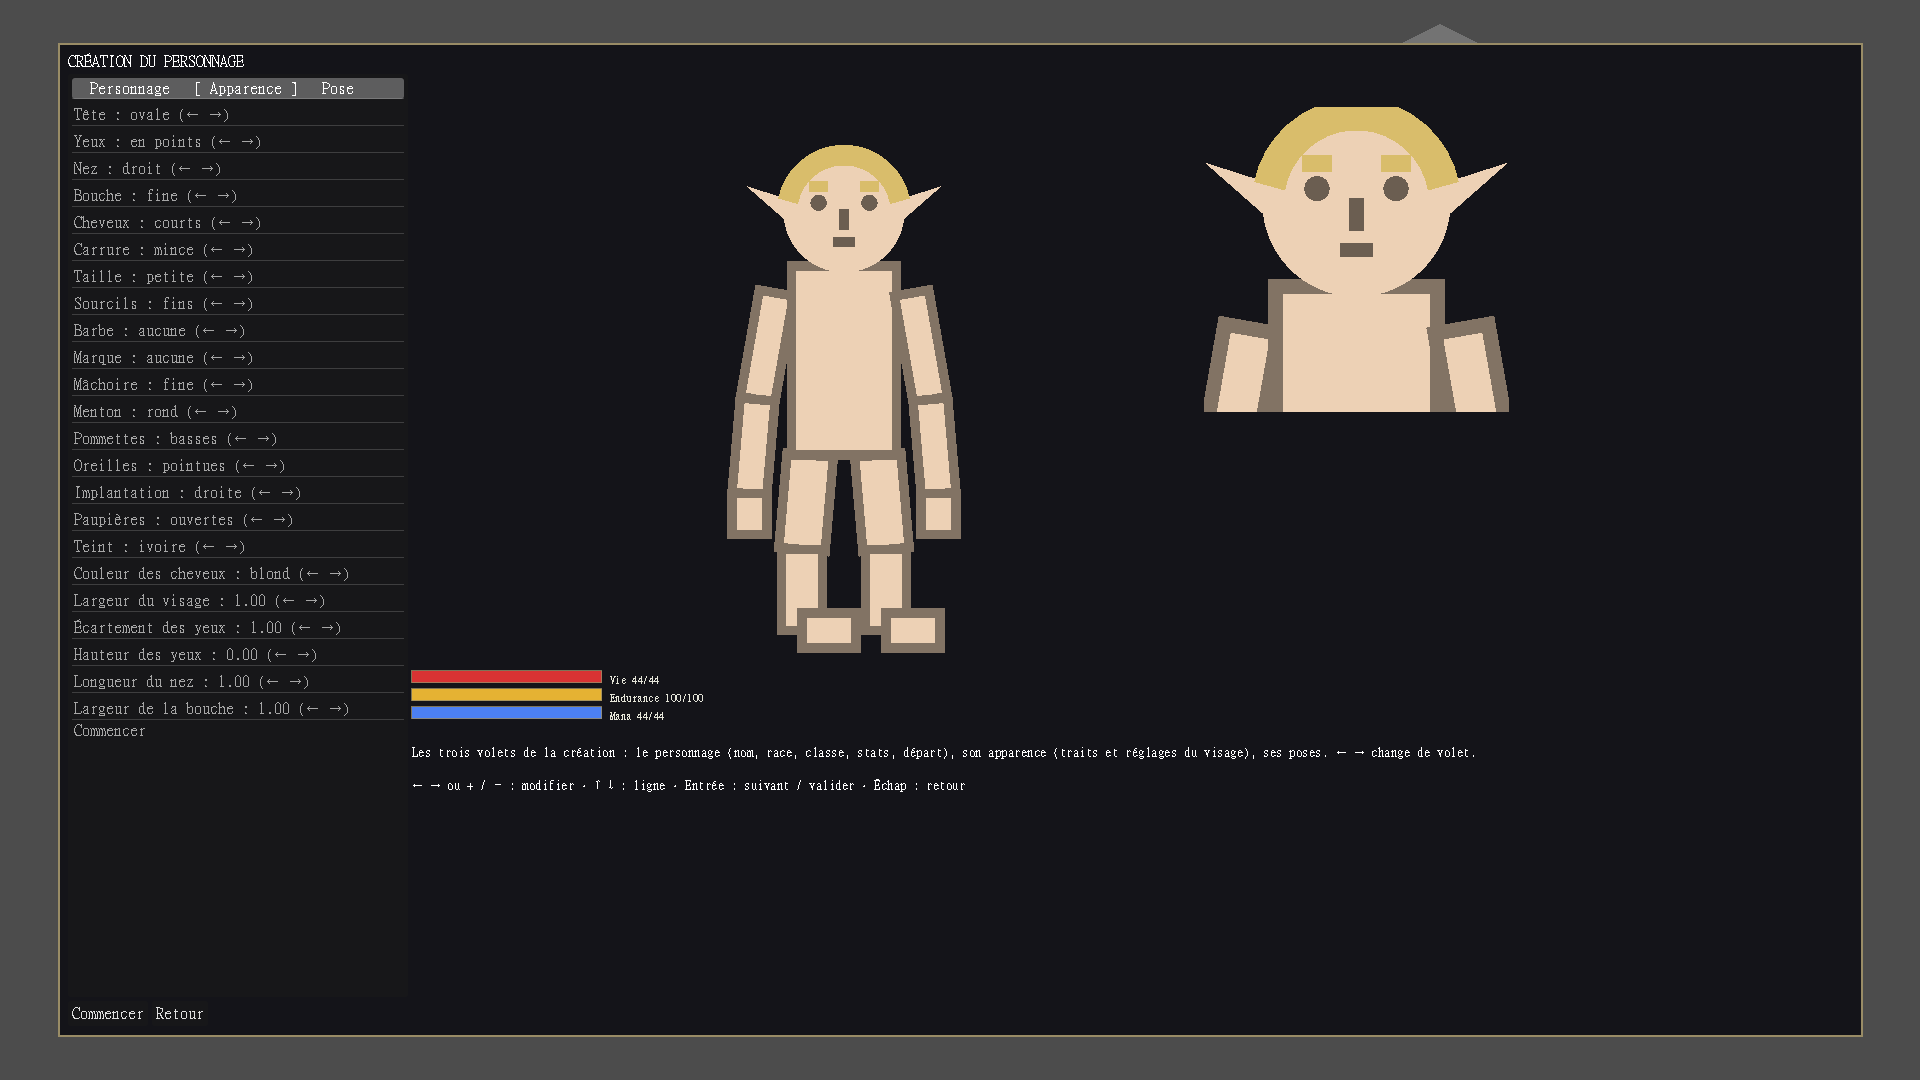
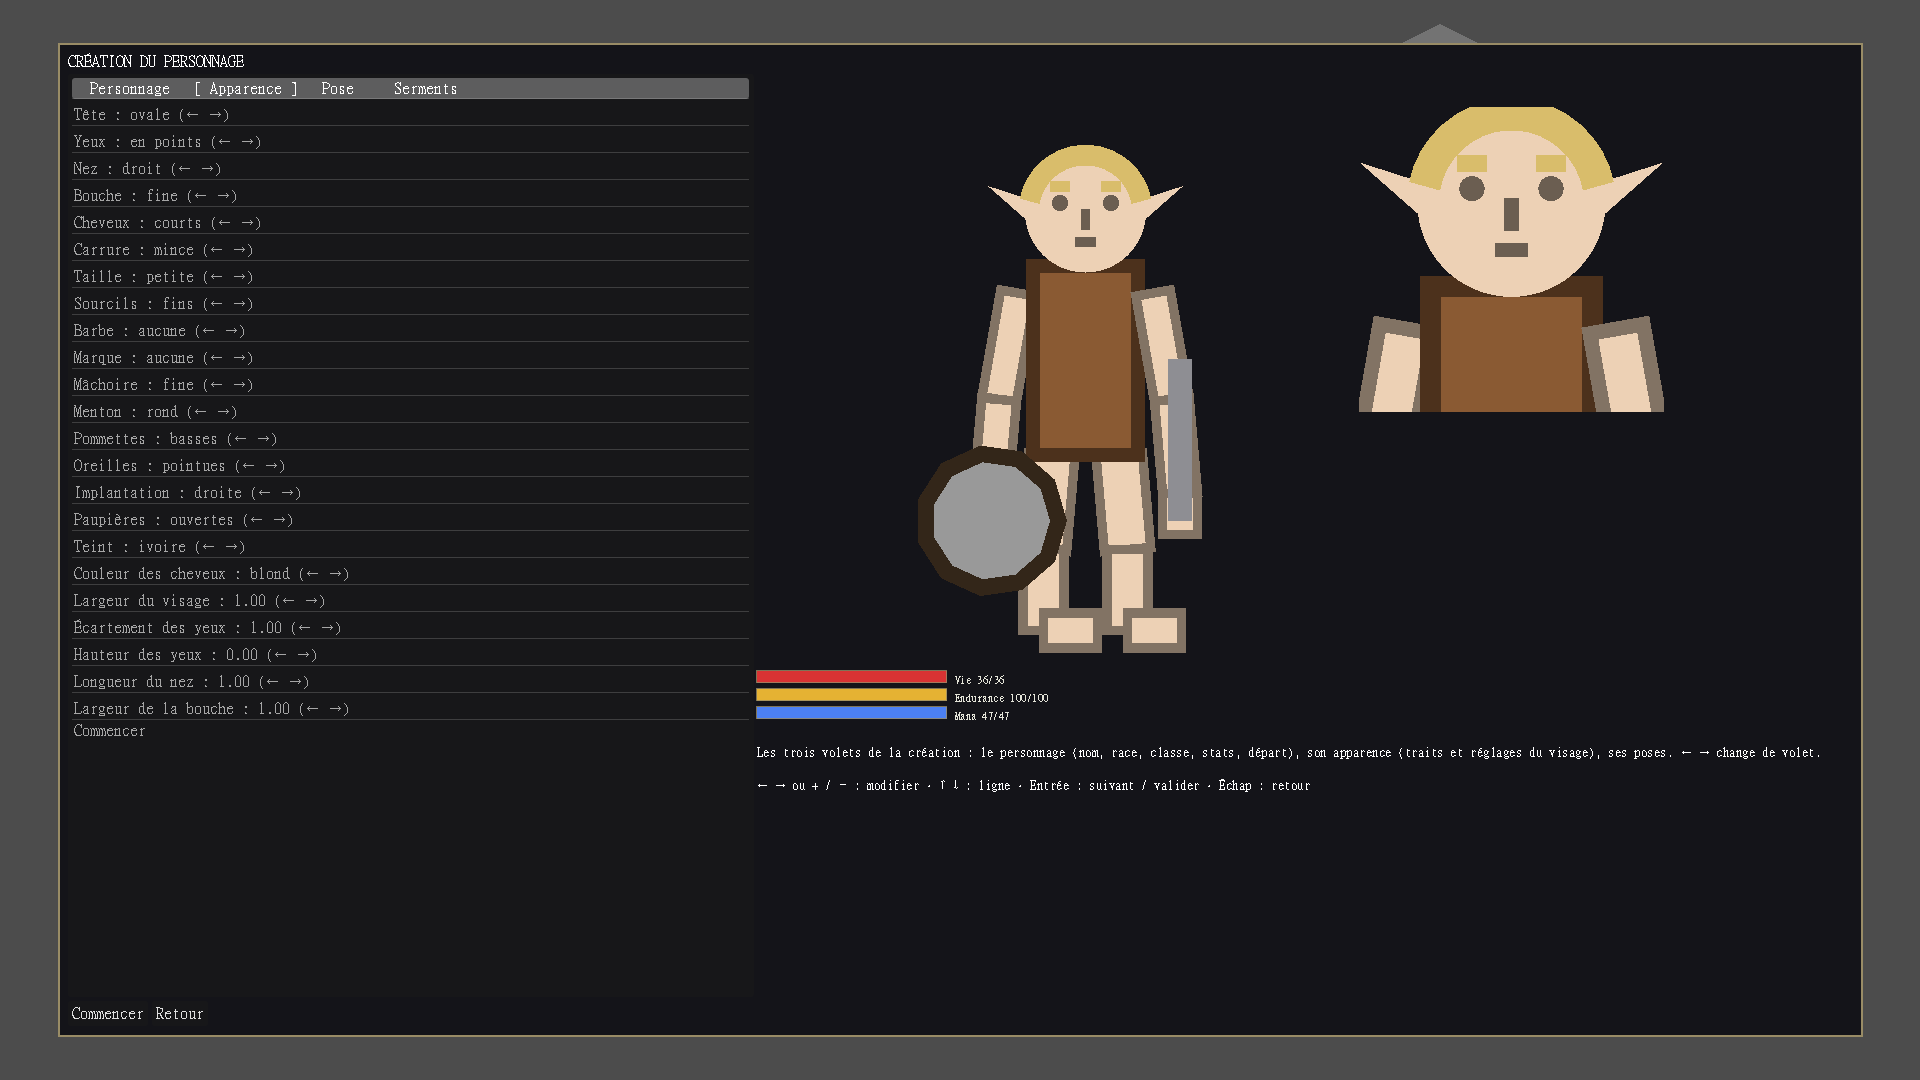
La colonne des ecrans s'ouvrait toujours a 340 px
Defaut de mon propre correctif du point 67 : la largeur se recalculait
sur le signal resized du panneau, qui ne se declenche pas quand un ecran
s'ouvre a une taille qu'il a deja. Tous les ecrans s'ouvraient donc au
plancher, et le correctif ne s'appliquait qu'apres un redimensionnement
manuel. Vu a l'ecran sur le volet Serments : la ligne d'onglets
s'arretait sur « Pose [… » et les serments perdaient la moitie de leur
texte. La largeur se pose maintenant aussi a l'ouverture.

Le robot de parcours compose desormais ses sorts AVEC un module de
portee — sans lui, tout ce qu'il composait se lancait au contact depuis
la scission du 2026-09-01. Il lance 30 sorts la ou il n'en lancait
aucun, et descend un etage sans mourir.

Captures refaites : inventaire (14 slots, kit de classe porte), les
quatre volets de la creation, l'atelier.

Changed region(s): [[0.375, 0.0917, 0.875, 0.6722], [0.1875, 0.6111, 0.3438, 0.6722], [0.1875, 0.0611, 0.4062, 0.0917]]

diff --git a/docs/08 - Technique/Écrans d'interface.md b/docs/08 - Technique/Écrans d'interface.md
@@ -165,6 +165,10 @@ Inventaire+équipement (avec poids), Craft (recettes des stations à portée, [[
 > Le moteur enchaîne autant d'étapes qu'on veut — un déclencheur encapsule tout ce qui le suit, et l'assemblage se rappelle lui-même (`test_chaine_a_trois_etapes`). L'écran, lui, n'en exprimait que **deux** : ses créneaux étant groupés **par type**, tout ce qui suivait le premier déclencheur tombait dans une seule case « Suite », et un second déclencheur se rangeait avec le premier — la troisième étape était donc impossible à écrire à la souris. Le composeur tient maintenant une **liste d'étapes** : une ligne d'onglets « Étape 1 · 2 · 3 · + » ouvre celle qu'on modifie, chaque étape a ses propres créneaux (portée, forme, noyaux, modificateurs, conditions, liaisons) et son **déclencheur**, qui est précisément ce qui ouvre la suivante. Le groupe « Suite » disparaît : ce n'était que l'étape 2 sans le dire. Ajouter une étape exige un déclencheur dans la précédente — sans lui, rien ne partirait.
 
 
+> [!bug] Corrigé le 2026-09-02 — la largeur de la colonne ne se calculait qu'au redimensionnement
+> Défaut de mon propre travail du point 67 : la largeur de la liste était recalculée **sur le signal `resized` du panneau**, et ce signal ne se déclenche pas quand un écran s'ouvre à une taille qu'il a déjà. Tous les écrans s'ouvraient donc à la **largeur plancher de 340 px** — le correctif ne s'appliquait qu'après un redimensionnement manuel de la fenêtre. Vu à l'écran sur le volet Serments : la ligne d'onglets s'arrêtait sur « Pose [… » et les six serments perdaient la moitié de leur texte. La largeur se pose maintenant aussi à l'ouverture.
+
+
 ## Liens
 - **Dépend de** : [[Direction artistique]], [[Localisation]]
 - **Alimente** : [[Combat tactique sur grille]], [[Craft compositionnel]], [[Habitat des PNJ]], [[Entretien et taxes]]
